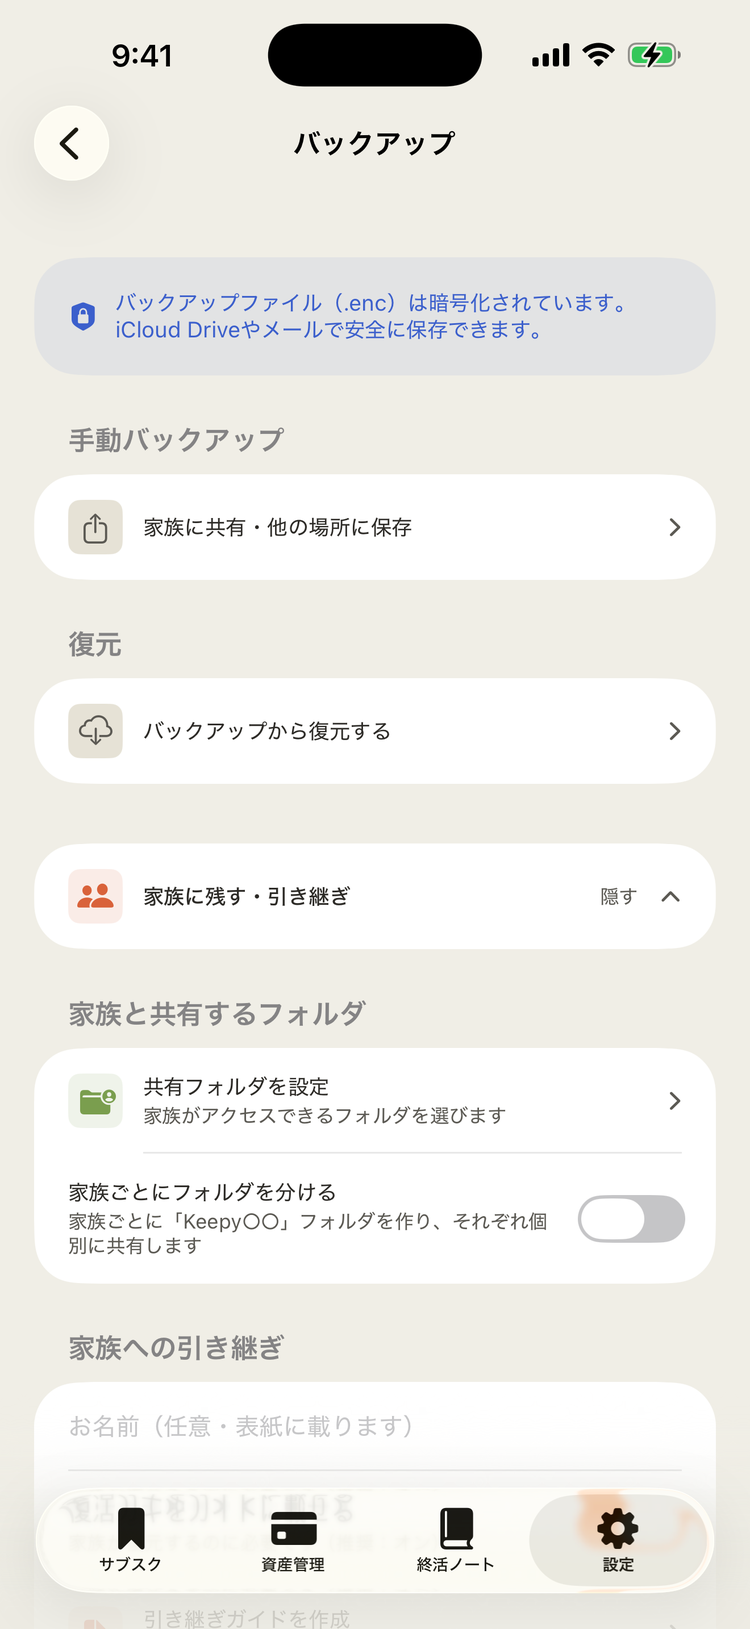
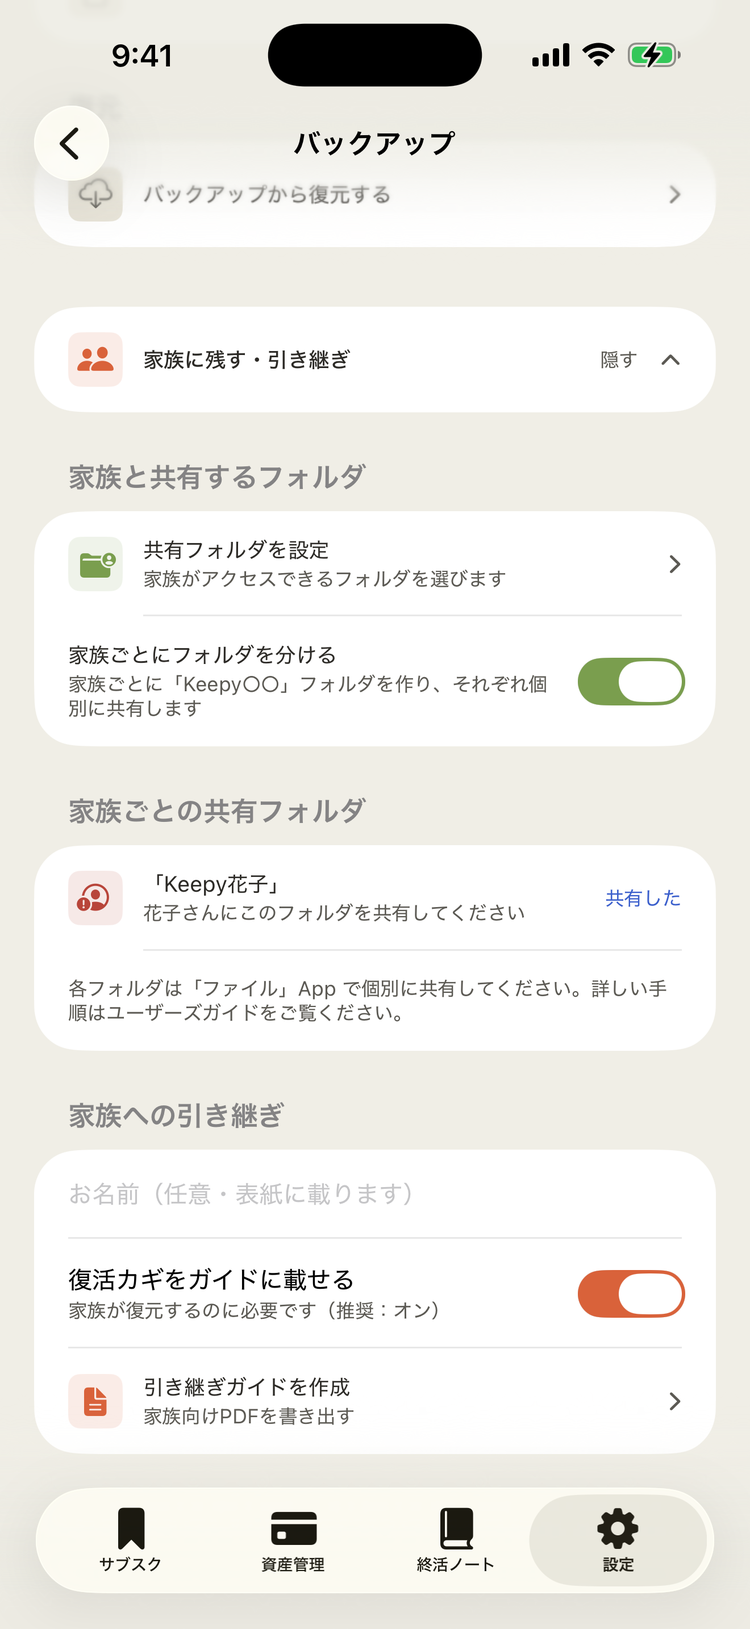
fix: 引き継ぎガイドの STEP 3 が STEP 2 と同じ画面だったのを撮り直す
## なぜ

`f6115d3` の時点で「`step2_folder.png` と `step3_share.png` は同じ画面になった
（元はトグルの ON/OFF 違い）。トグルの座標が当たらず切り替えられなかった」と記録していた。

🔴 **原因は座標ではなく押し方だった**＝UISwitch は**瞬間タップを無視する**。
`touch_path` で **150ms ほど押下時間**を与えると切り替わる（2026-08-22 に判明）。

## 何が問題だったか

- `step2_folder` の alt＝「バックアップ画面の『家族と共有するフォルダ』。『共有フォルダを設定』から
  家族がアクセスできるフォルダを選ぶ」＝**トグル OFF** の状態 → 画像は正しい（変更なし）
- `step3_share` の alt＝「**家族ごとの共有フォルダに「Keepy花子」が作られ、「共有した」ボタンで
  共有状況を記録できる**」＝**トグル ON** の状態が必要なのに、OFF の同じ画面が入っていた
  ＝**本文が説明している画面が、そもそも写っていなかった**

## 撮り直し

`-uiTestSeed -uiTestPremium` で起動 → 設定 → バックアップ →「家族ごとにフォルダを分ける」を
**ON**（確認ダイアログは「このまま進める」）→ 現れた「家族ごとの共有フォルダ」まで送って撮影。

新しい `step3_share.png` に写っているもの:
- 「家族ごとにフォルダを分ける」トグルが**オン（緑）**
- 「**家族ごとの共有フォルダ**」→「**「Keepy花子」／花子さんにこのフォルダを共有してください**」＋
  右端に「**共有した**」
- 「各フォルダは「ファイル」App で個別に共有してください。」の注記

## 検証

- `step2_folder.png` と `step3_share.png` の**差分が全面（0,0,750,1629）＝別画像**になった
  （SHA256 も別。以前は同一内容だった）
- 3サイズとも寸法規約どおり（750×1629 / 422×917 / 211×458）＝HTML の宣言と一致
- ローカル配信で `step3_share-422.png?v=2` が実際に読み込まれることを確認
- キャッシュバスター `?v=2` を srcset の全候補と src に付与（4箇所）
  ＝中身が変わったのに URL が同じだと再訪問者に古い画像が出るため

diff --git a/guide.html b/guide.html
@@ -220,7 +220,7 @@
             </p>
           </div>
         </div>
-        <div class="phone"><img srcset="img/guide/step3_share-211.png 211w, img/guide/step3_share-422.png 422w, img/guide/step3_share.png 750w" sizes="(max-width: 620px) 186px, 211px" src="img/guide/step3_share.png" width="750" height="1629" loading="lazy" alt="家族ごとの共有フォルダに「Keepy花子」が作られ、「共有した」ボタンで共有状況を記録できる"></div>
+        <div class="phone"><img srcset="img/guide/step3_share-211.png?v=2 211w, img/guide/step3_share-422.png?v=2 422w, img/guide/step3_share.png?v=2 750w" sizes="(max-width: 620px) 186px, 211px" src="img/guide/step3_share.png?v=2" width="750" height="1629" loading="lazy" alt="家族ごとの共有フォルダに「Keepy花子」が作られ、「共有した」ボタンで共有状況を記録できる"></div>
       </div>
       <div class="step-card tint-terra flip">
         <span class="step-watermark" aria-hidden="true">4</span>
